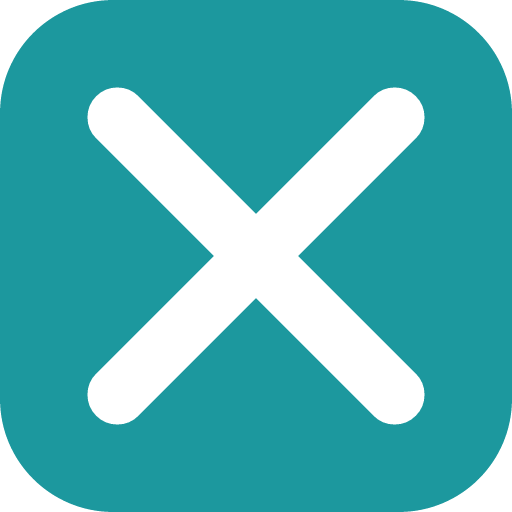
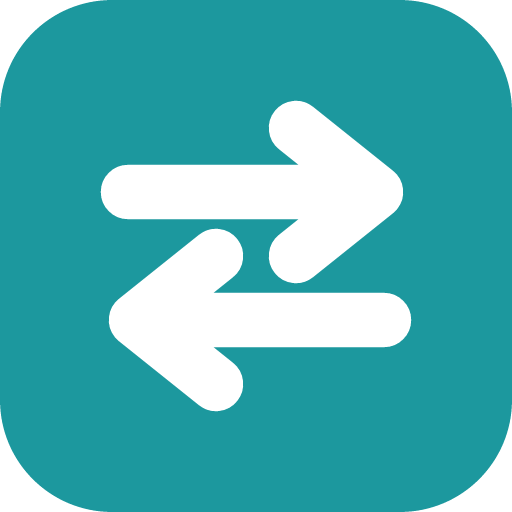
feat: swap logomark to Exchange, lengthen browser title
Replace the × cross with the approved Exchange mark — two offset arrows
pointing opposite ways (⇄), the two-way transfer between sender and
receiver. Horizontal shafts (upper band, lower band) keep it from reading
as an X. Rewrites the theme-aware favicon.svg, updates the inline mark in
gen-icons.mjs, and regenerates every raster (app icons, maskable,
favicon.ico, og.png). The 16px .ico frame thickens the strokes so the
arrowheads stay legible at tab size.

Title now reads "synxor — Send it. It vanishes."; description and OG copy
are unchanged.

Changed region(s): [[0.1562, 0.1562, 0.8438, 0.8438]]

diff --git a/apps/web/src/routes/__root.tsx b/apps/web/src/routes/__root.tsx
@@ -32,7 +32,7 @@ export const Route = createRootRouteWithContext<RouterAppContext>()({
         { name: "viewport", content: "width=device-width, initial-scale=1, viewport-fit=cover" },
         { name: "theme-color", content: "#ffffff", media: "(prefers-color-scheme: light)" },
         { name: "theme-color", content: "#1a1a1a", media: "(prefers-color-scheme: dark)" },
-        { title: "synxor" },
+        { title: "synxor — Send it. It vanishes." },
         { name: "description", content: "Send it. It vanishes." },
         { property: "og:type", content: "website" },
         { property: "og:site_name", content: "synxor" },
